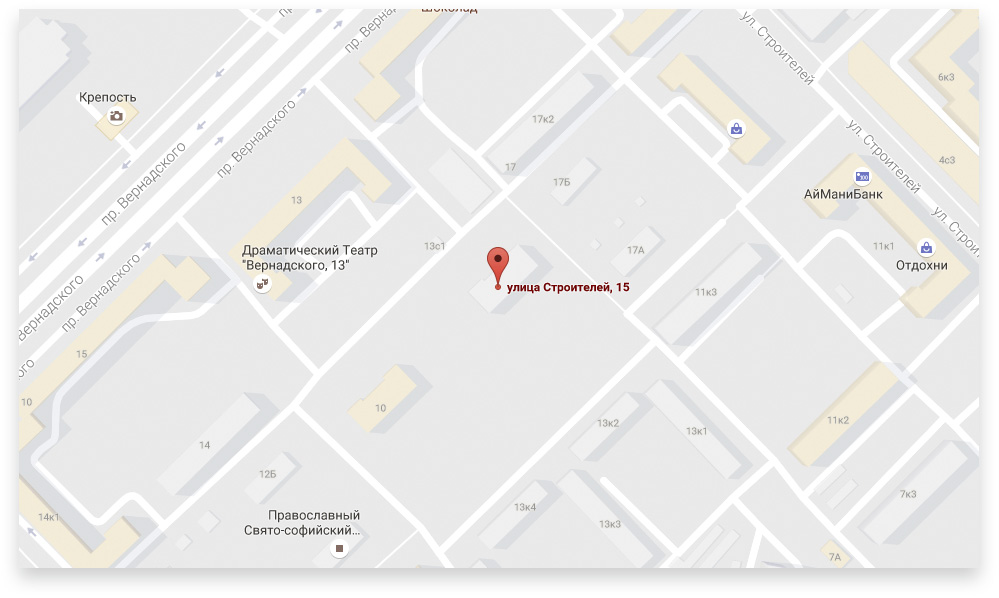
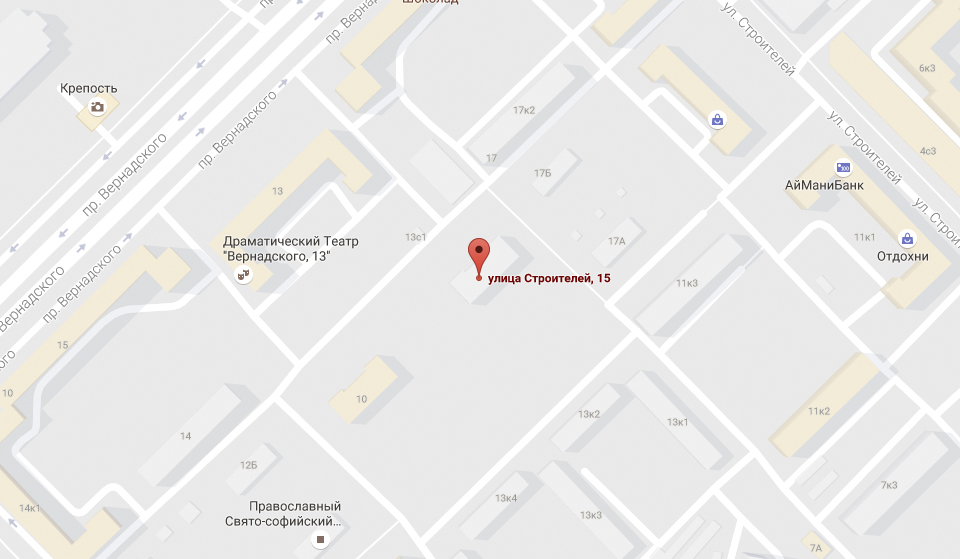
Доделал попапы но без js пока.

diff --git a/css/style.css b/css/style.css
@@ -1187,30 +1187,6 @@
   opacity: 0.1;
 }
 
-/*Всплывающий блок popup_write-us при нажатии кнопки "Написать нам" */
-.popup-write-us__label {
-  font-family: "Gilroy", "Arial", sans-serif;
-  font-size: 17px;
-  font-weight: 800;
-  line-height: 1.4;
-}
-
-.popup-write-us__textarea,
-.popup-write-us__input {
-  font-family: "Open sans", "Arial", sans-serif;
-  font-size: 14px;
-  line-height: 1.25;
-}
-
-.popup-write-us__submit {
-  font-family: "Gilroy", "Arial", sans-serif;
-  font-size: 18px;
-  font-weight: 800;
-  line-height: 1.27;
-  letter-spacing: 3.7px;
-  text-align: center;
-}
-
 /*блок catalog страницы catalog.html*/
 .catalog {
   width: 100%;
@@ -1288,7 +1264,8 @@
 
 .catalog__header {
   width: 100%;
-  background: linear-gradient(to right, #dbdbdb, #ebebeb)
+  background: linear-gradient(to right, #dcdcdc 0%, #dcdcdc 45%, #ebebeb 50%, #ebebeb 100%)
+  /* background: linear-gradient(to right, #dbdbdb, #ebebeb)*/
 }
 
 .catalog__header .wrapper-content {
@@ -1339,7 +1316,16 @@
 .catalog-products__header-link {
   font-size: 14px;
   line-height: 1.25;
-  color: rgba(0, 0, 0, 0.3);
+  color: #000000;
+  opacity: 0.3;
+}
+
+.catalog-products__header-link:hover {
+  opacity: 0.6;
+}
+
+.catalog-products__header-link:active {
+  opacity: 1;
 }
 
 .catalog-products__header-text_select {
@@ -1369,6 +1355,16 @@
 }
 
 .catalog__arrow_active {
+  opacity: 1;
+}
+
+.catalog__arrow-up:hover,
+.catalog__arrow-down:hover {
+  opacity: 0.4;
+}
+
+.catalog__arrow-up:active,
+.catalog__arrow-down:active {
   opacity: 1;
 }
 
@@ -1506,6 +1502,14 @@
   background: url("../img/svg-images/checkbox-off.svg") no-repeat;
 }
 
+.catalog-products__chekbox:disabled + .catalog-products__label-chekbox {
+  opacity: 0.25;
+}
+
+.catalog-products__label-chekbox:hover {
+  opacity: 0.6;
+}
+
 .catalog-products__fieldset_bluetooth {
   margin-top: 34px;
   display: flex;
@@ -1546,6 +1550,14 @@
   top: 7px;
   left: -40px;
   background: url("../img/svg-images/radio-off.svg") no-repeat;
+}
+
+.catalog-products__radio:disabled + .catalog-products__label-radio {
+  opacity: 0.2;
+}
+
+.catalog-products__label-radio:hover {
+  opacity: 0.6;
 }
 
 .catalog__filter-button {
@@ -1834,4 +1846,129 @@
   opacity: 0.3;
 }
 
+.popup {
+  position: fixed;
+  top: 130px;
+  left: 50%;
+  margin-left: -480px;
+  box-shadow: 0 10px 20px 0 rgba(4, 6, 6, 0.2);
+  z-index: 3;
+}
+
+/*Всплывающий блок popup_write-us при нажатии кнопки "Написать нам" */
+
+.popup_write-us {
+  width: 960px;
+  height: 553px;
+  background-color: #ffffff;
+}
+
+.popup_map {
+  width: 960px;
+  height: 559px;
+}
+
+.popup_map .popup__button-close {
+  opacity: 0.5;
+}
+
+.popup__button-close {
+  position: absolute;
+  top: 22px;
+  right: 22px;
+  width: 55px;
+  height: 55px;
+  background: url("../img/svg-images/modal-close.svg");
+  border: none;
+  cursor: pointer;
+}
+
+.popup-write-us__form {
+  display: flex;
+  justify-content: space-between;
+  flex-wrap: wrap;
+  width: 760px;
+  height: 380px;
+  margin: 88px auto;
+}
+
+.popup-write__wrapper-text {
+  display: flex;
+  flex-direction: column;
+  justify-content: center;
+  width: 360px;
+  height: 100px;
+}
+
+.popup-write__wrapper-textarea {
+  display: flex;
+  flex-direction: column;
+  justify-content: center;
+  width: 760px;
+  height: 210px;
+}
+
+.popup-write-us__label {
+  font-family: "Gilroy", "Arial", sans-serif;
+  font-size: 17px;
+  font-weight: 800;
+  line-height: 1.4;
+}
+
+.popup-write__wrapper-text .popup-write-us__label {
+  margin-bottom: 10px;
+}
+
+.popup-write__wrapper-textarea .popup-write-us__label {
+  margin-bottom: 10px;
+}
+
+.popup-write-us__input {
+  width: 340px;
+  height: 50px;
+  opacity: 0.5;
+  font-size: 14px;
+  line-height: 1.25;
+  color: rgba(70, 70, 70, 0.4);
+  padding-left: 20px;
+  margin: 0;
+  background-color: #f2f2f2;
+  border: none;
+}
+
+.popup-write-us__textarea:hover,
+.popup-write-us__input:hover {
+  opacity: 0.8;
+  outline: none;
+}
+
+.popup-write-us__textarea:focus,
+.popup-write-us__input:focus {
+  background-color: #ffffff;
+  border: solid 3px #f0c52e;
+  opacity: 1;
+  color: rgba(70, 70, 70, 1);
+}
+
+.popup-write-us__textarea {
+  margin: 0;
+  height: 156px;
+  background-color: #f2f2f2;
+  border: none;
+  resize: none;
+  font-size: 14px;
+  padding-left: 20px;
+  line-height: 1.25;
+  opacity: 0.5;
+  color: rgba(70, 70, 70, 0.4)
+}
+
+.popup-write-us__button {
+  border: none;
+  background-color: inherit;
+  padding-left: 34px;
+  padding-right: 36px;
+  padding-top: 2px;
+  padding-bottom: 2px;
+}
 

diff --git a/index.html b/index.html
@@ -302,31 +302,34 @@
     </div>
   </footer>
   <section class="popup popup_write-us visually-hidden">
-    <button class="popup-write-us__button-close" type="button"></button>
+    <button class="popup__button-close" type="button"></button>
     <form class="popup-write-us__form" method="post" action="https://echo.htmlacademy.ru">
-      <label class="popup-write-us__label" for="popup-write-us__input-FIO">
-        Ваше имя:
+
+      <div class="popup-write__wrapper-text">
+        <label class="popup-write-us__label" for="popup-write-us__input-FIO">Ваше имя:</label>
         <input class="popup-write-us__input" type="text" name="FIO" id="popup-write-us__input-FIO"
                placeholder="Имя Фамилия">
-      </label>
-      <label class="popup-write-us__label" for="popup-write-us__input-email">
-        Ваш e-mail:
+      </div>
+
+      <div class="popup-write__wrapper-text">
+        <label class="popup-write-us__label" for="popup-write-us__input-email">Ваш e-mail:</label>
         <input class="popup-write-us__input" type="text" name="email" id="popup-write-us__input-email"
                placeholder="email@example.com">
-      </label>
-      <label class="popup-write-us__label" for="popup-write-us__textarea-content">
-        Текс письма:
+      </div>
+
+      <div class="popup-write__wrapper-textarea">
+        <label class="popup-write-us__label" for="popup-write-us__textarea-content">Текст письма:</label>
         <textarea class="popup-write-us__textarea" name="textarea" id="popup-write-us__textarea-content"
                   placeholder="В свободной форме"></textarea>
-      </label>
-      <button class="button" name="submit" id="popup-write-us__submit" type="submit">Отправить</button>
+      </div>
+
+      <button class="popup-write-us__button button" name="submit" id="popup-write-us__submit" type="submit">Отправить
+      </button>
     </form>
   </section>
   <section class="popup popup_map visually-hidden">
-    <button class="popup-map__button-close" type="button"></button>
-    <div class="popup-map__content">
-      <img class="popup-map__img" src="img/maps/map-big.jpg" alt="Карта" width="999" height="598">
-    </div>
+    <button class="popup__button-close" type="button"></button>
+    <img class="popup-map__img" src="img/maps/map-big.jpg" alt="Карта" width="960" height="559">
   </section>
 </div>
 <script src="js/script.js"></script>
